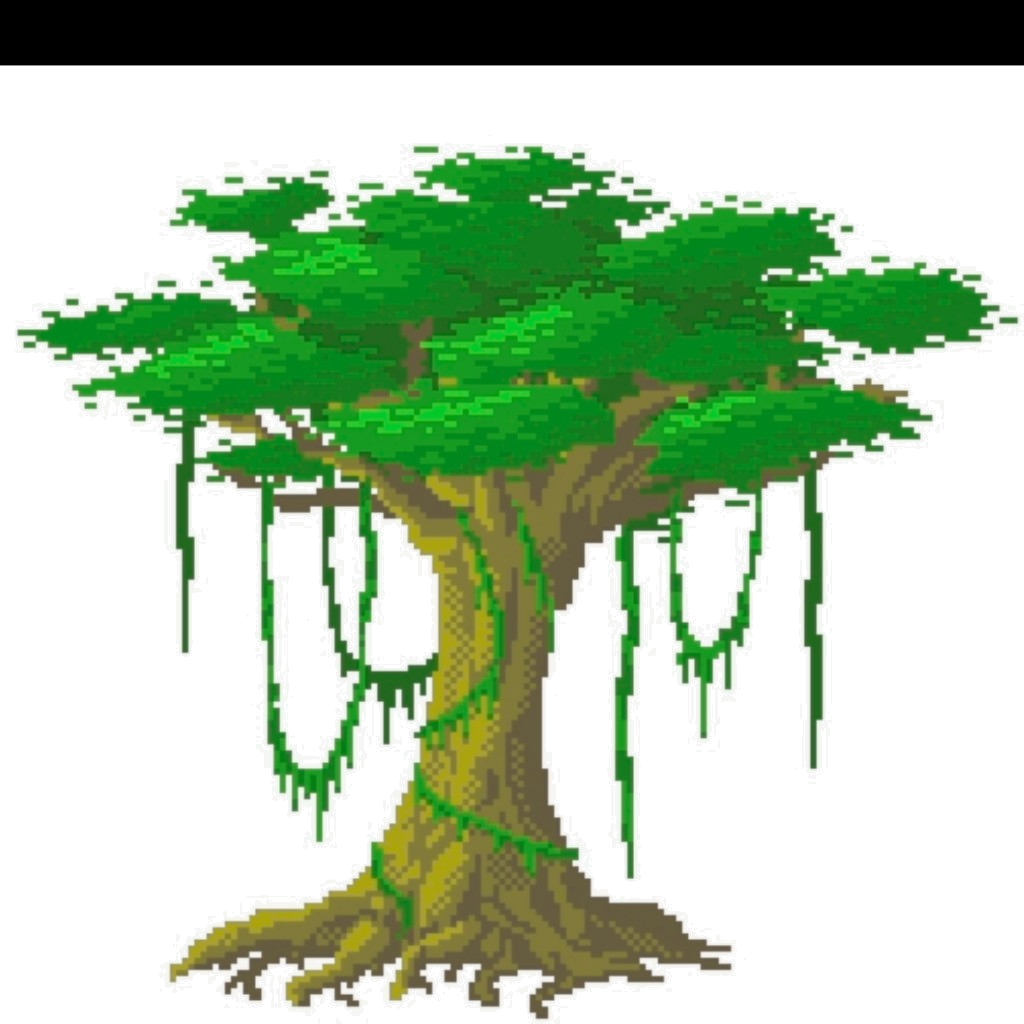
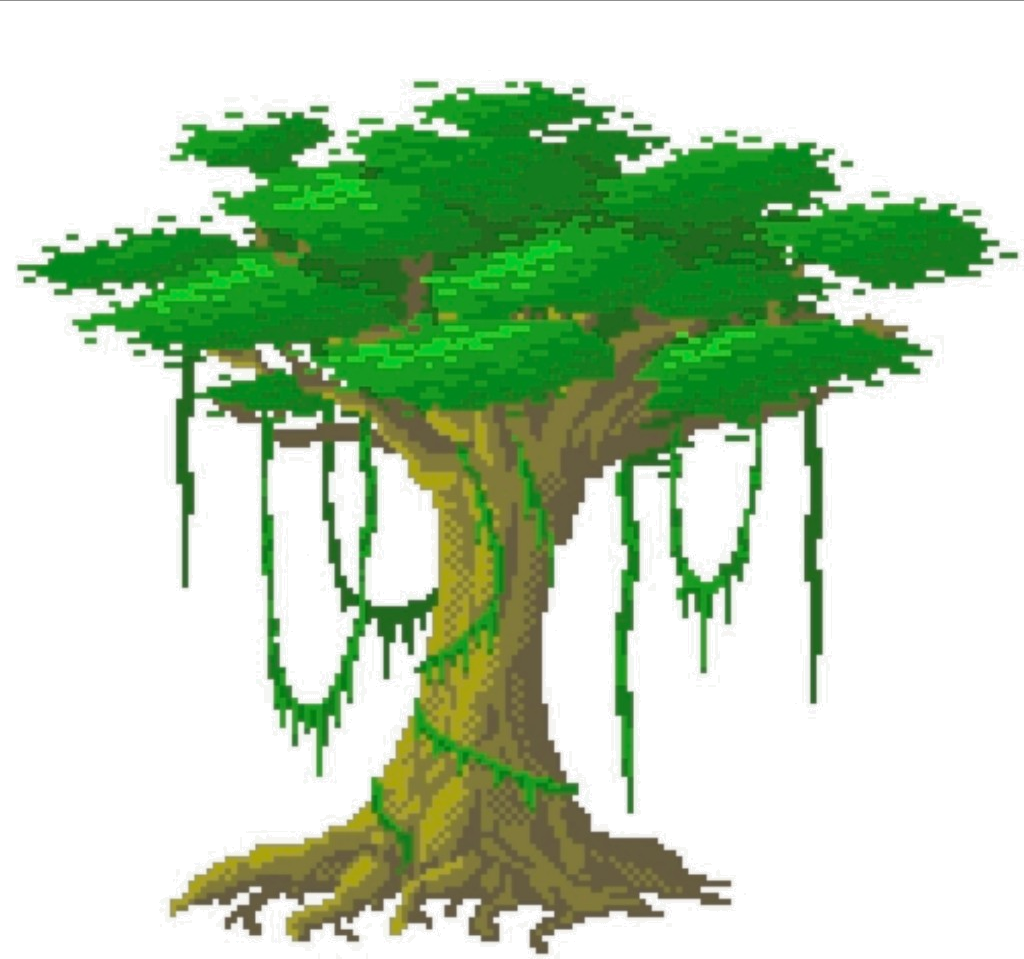
polish: enlarge tree, keep roots on-page, restore title spot (#12)
Grow the home tree ~50%, crop the top black bar, hang only the left canopy off-screen, and put the tree behind the restored title.

diff --git a/src/app/page.tsx b/src/app/page.tsx
@@ -4,16 +4,16 @@ import Link from "next/link";
 export default function HomePage() {
   return (
     <section className="home-scene relative min-h-[calc(100vh-7.5rem)] overflow-hidden">
-      {/* Tree hangs off the left; canopy fills the upper-left above the title. */}
+      {/* Tree sits behind everything; only the leftmost canopy hangs off-screen. */}
       <Image
         src="/art/pixel-tree.png"
         alt=""
         width={1024}
-        height={1024}
+        height={959}
         priority
         aria-hidden
-        className="pixel pointer-events-none absolute -left-[34%] bottom-2 z-0 w-[min(92vw,640px)] max-w-none select-none sm:-left-[22%] sm:w-[min(78vw,580px)] lg:-left-[14%] lg:w-[560px]"
-        sizes="(max-width: 640px) 92vw, (max-width: 1024px) 78vw, 560px"
+        className="pixel pointer-events-none absolute -left-[6%] bottom-2 -z-10 w-[min(120vw,960px)] max-w-none select-none sm:-left-[4%] sm:w-[min(100vw,900px)] lg:-left-[2%] lg:w-[840px]"
+        sizes="(max-width: 640px) 120vw, (max-width: 1024px) 100vw, 840px"
       />
 
       {/* Chair sits bottom-left, just to the right of the trunk. */}
@@ -24,11 +24,12 @@ export default function HomePage() {
         height={1024}
         aria-hidden
         className="pixel pointer-events-none absolute bottom-6 z-[1] w-[84px] max-w-none select-none sm:bottom-8 sm:w-[108px] lg:w-[120px]"
-        style={{ left: "clamp(9.5rem, 30vw, 17.5rem)" }}
+        style={{ left: "clamp(14rem, 38vw, 26rem)" }}
         sizes="120px"
       />
 
-      <div className="relative z-10 mx-auto flex min-h-[calc(100vh-7.5rem)] max-w-5xl flex-col justify-end px-4 pb-32 pt-[min(48vh,22rem)] sm:px-6 sm:pb-36 sm:pt-[min(44vh,24rem)] lg:justify-center lg:pb-28 lg:pl-[min(48%,26rem)] lg:pt-36">
+      {/* Title stays in its original centered spot; tree canopy overhangs behind it. */}
+      <div className="relative z-10 mx-auto flex min-h-[calc(100vh-7.5rem)] max-w-5xl flex-col justify-center px-4 py-16 sm:px-6">
         <h1 className="text-4xl font-bold leading-[1.05] tracking-tight sm:text-6xl lg:text-7xl">
           brent
           <br />
